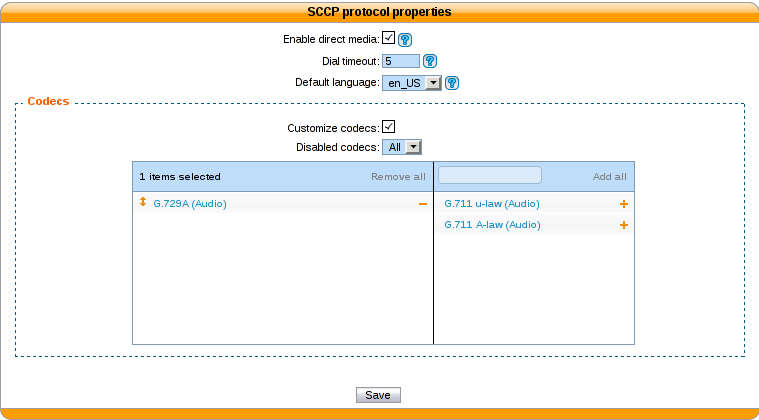
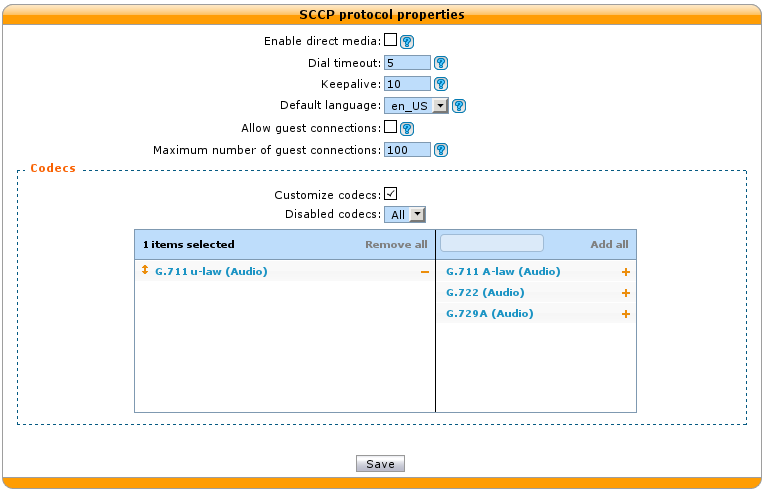
sccp: add doc about auto-provisioning

diff --git a/source/administration/sccp/sccp.rst b/source/administration/sccp/sccp.rst
@@ -49,6 +49,25 @@ When connecting a second SCCP phone, the device will be automatically detected a
    Device list
 
 
+Auto-provisioning support
+-------------------------
+
+Starting from Wazo 18.07, an SCCP device can be associated to a user by entering the user's provisioning code
+directly from the SCCP device while in autoprov mode.
+
+There's two settings in :menuselection:`Services --> IPBX --> IPBX settings --> SCCP
+general settings` influencing the auto-provisioning behaviour:
+
+* the :guilabel:`Allow guest connections` option must be enabled to allow SCCP devices to connect to
+  the server and allow a provisioning code from being dialed from them. Disabling this option can
+  provide some additional security if your Wazo is in an hostile environment, at the cost of making
+  auto-provisioning support unavailable for SCCP devices.
+* the :guilabel:`Maximum number of guest connections` option limits the number of SCCP devices that
+  can simultaneously connect to the server in autoprov mode. You should set this value to the
+  maximum number of SCCP devices you expect to be in autoprov mode at any moment, unless your
+  Wazo is in an hostile environment, where you should probably set it to a fairly low value.
+
+
 SCCP General Settings
 =====================
 
@@ -157,7 +176,7 @@ Features
 +------------------------------+-----------+
 | Group pickup                 | Yes       |
 +------------------------------+-----------+
-| Auto-provisioning            | Not yet   |
+| Auto-provisioning            | Yes       |
 +------------------------------+-----------+
 | Multi line                   | Not yet   |
 +------------------------------+-----------+
